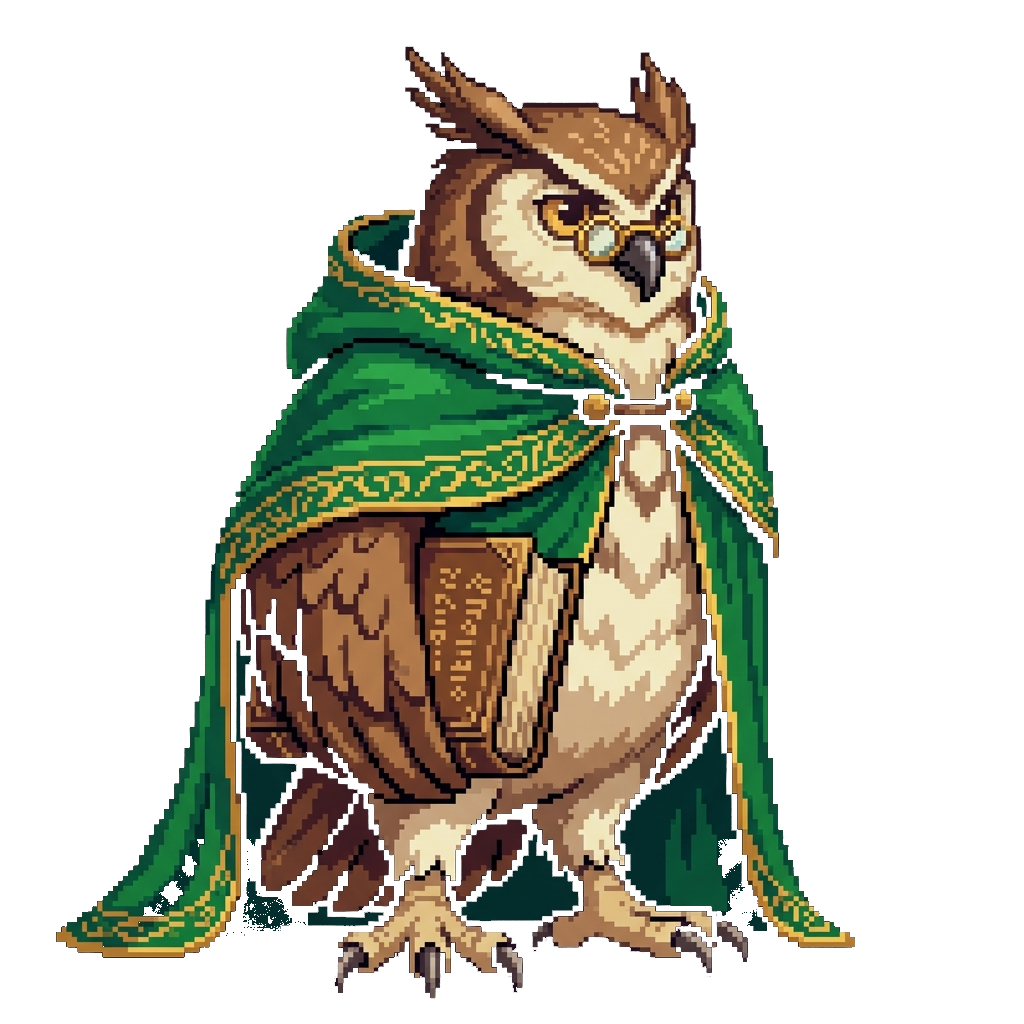
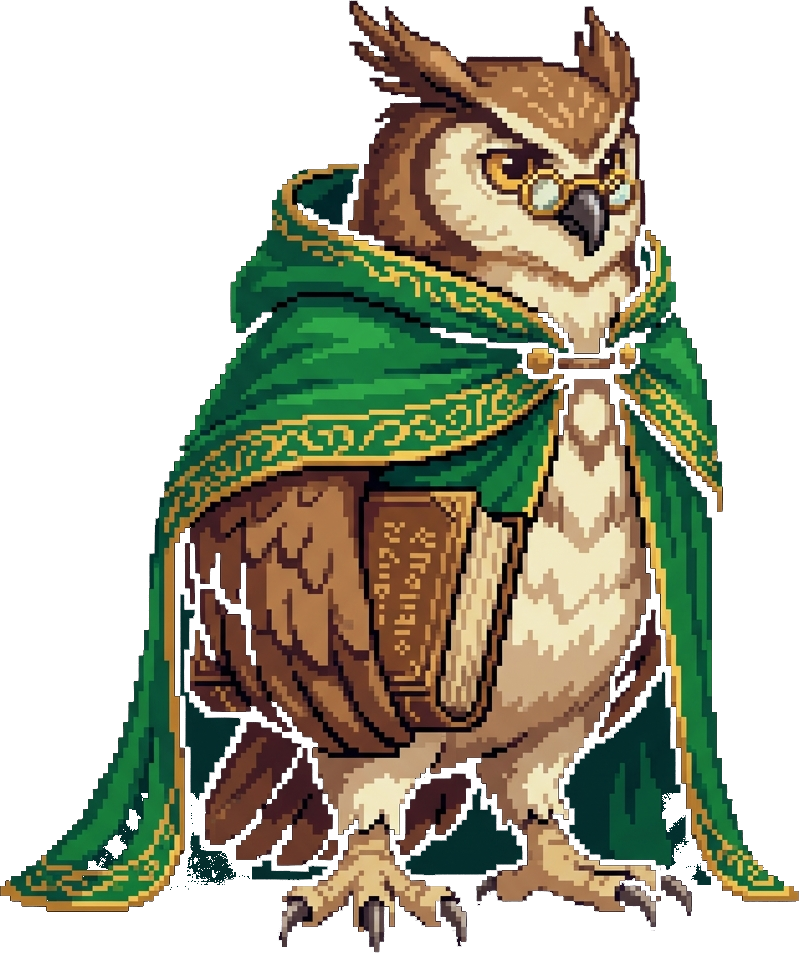
fix(hero): crop sprites to exact pixel bounds and anchor character feet squarely on stone pedestal top platform

diff --git a/src/index.css b/src/index.css
@@ -1010,14 +1010,14 @@ body[data-module-theme="home"] .bottom-nav a.active {
 .hero-pedestal-container {
   position: absolute;
   right: 4%;
-  bottom: 6px;
+  bottom: 4px;
   z-index: 3;
   display: flex;
   flex-direction: column;
   align-items: center;
   justify-content: flex-end;
-  width: 145px;
-  height: 215px;
+  width: 140px;
+  height: 230px;
   cursor: pointer;
   -webkit-tap-highlight-color: transparent;
   user-select: none;
@@ -1026,18 +1026,18 @@ body[data-module-theme="home"] .bottom-nav a.active {
 @media (min-width: 640px) {
   .hero-pedestal-container {
     right: 6%;
-    bottom: 10px;
-    width: 165px;
-    height: 240px;
+    bottom: 8px;
+    width: 160px;
+    height: 250px;
   }
 }
 
 /* ── 1. Fixed Stationary Layer: Cliff Base Contact Shadow ── */
 .hero-pedestal-ground-shadow {
   position: absolute;
-  bottom: 2px;
-  width: 110px;
-  height: 18px;
+  bottom: 0px;
+  width: 95px;
+  height: 16px;
   background: radial-gradient(ellipse at center, rgba(0, 0, 0, 0.85) 0%, rgba(0, 0, 0, 0.4) 60%, transparent 80%);
   border-radius: 50%;
   pointer-events: none;
@@ -1048,8 +1048,8 @@ body[data-module-theme="home"] .bottom-nav a.active {
 .hero-stone-pedestal {
   position: absolute;
   bottom: 0;
-  width: 100%;
-  height: 115px;
+  width: 80px;
+  height: 140px;
   z-index: 2;
   display: flex;
   align-items: flex-end;
@@ -1066,9 +1066,9 @@ body[data-module-theme="home"] .bottom-nav a.active {
 
 .hero-pedestal-rune-glow {
   position: absolute;
-  bottom: 18px;
-  width: 55%;
-  height: 60%;
+  bottom: 25px;
+  width: 65%;
+  height: 55%;
   border-radius: 50%;
   pointer-events: none;
   opacity: 0.65;
@@ -1080,10 +1080,10 @@ body[data-module-theme="home"] .bottom-nav a.active {
 /* ── 3. Fixed Stationary Layer: Pillar Platform Surface Contact Shadow ── */
 .hero-pedestal-top-shadow {
   position: absolute;
-  bottom: 82px;
-  width: 80px;
-  height: 14px;
-  background: radial-gradient(ellipse at center, rgba(0, 0, 0, 0.8) 0%, rgba(0, 0, 0, 0.35) 55%, transparent 75%);
+  bottom: 116px;
+  width: 65px;
+  height: 10px;
+  background: radial-gradient(ellipse at center, rgba(0, 0, 0, 0.85) 0%, rgba(0, 0, 0, 0.4) 55%, transparent 75%);
   border-radius: 50%;
   pointer-events: none;
   z-index: 3;
@@ -1091,20 +1091,21 @@ body[data-module-theme="home"] .bottom-nav a.active {
 
 @media (min-width: 640px) {
   .hero-stone-pedestal {
-    height: 130px;
+    width: 90px;
+    height: 155px;
   }
   .hero-pedestal-top-shadow {
-    bottom: 94px;
-    width: 92px;
-    height: 16px;
+    bottom: 128px;
+    width: 74px;
+    height: 12px;
   }
 }
 
 /* ── 4. Living Mounted Creature Layer (Breathing, Micro-Tilt, Tap Bounce) ── */
 .hero-companion-creature {
   position: absolute;
-  bottom: 78px;
-  width: 120px;
+  bottom: 114px;
+  width: 115px;
   height: 125px;
   z-index: 4;
   display: flex;
@@ -1116,8 +1117,8 @@ body[data-module-theme="home"] .bottom-nav a.active {
 
 @media (min-width: 640px) {
   .hero-companion-creature {
-    bottom: 90px;
-    width: 135px;
+    bottom: 126px;
+    width: 130px;
     height: 140px;
   }
 }
